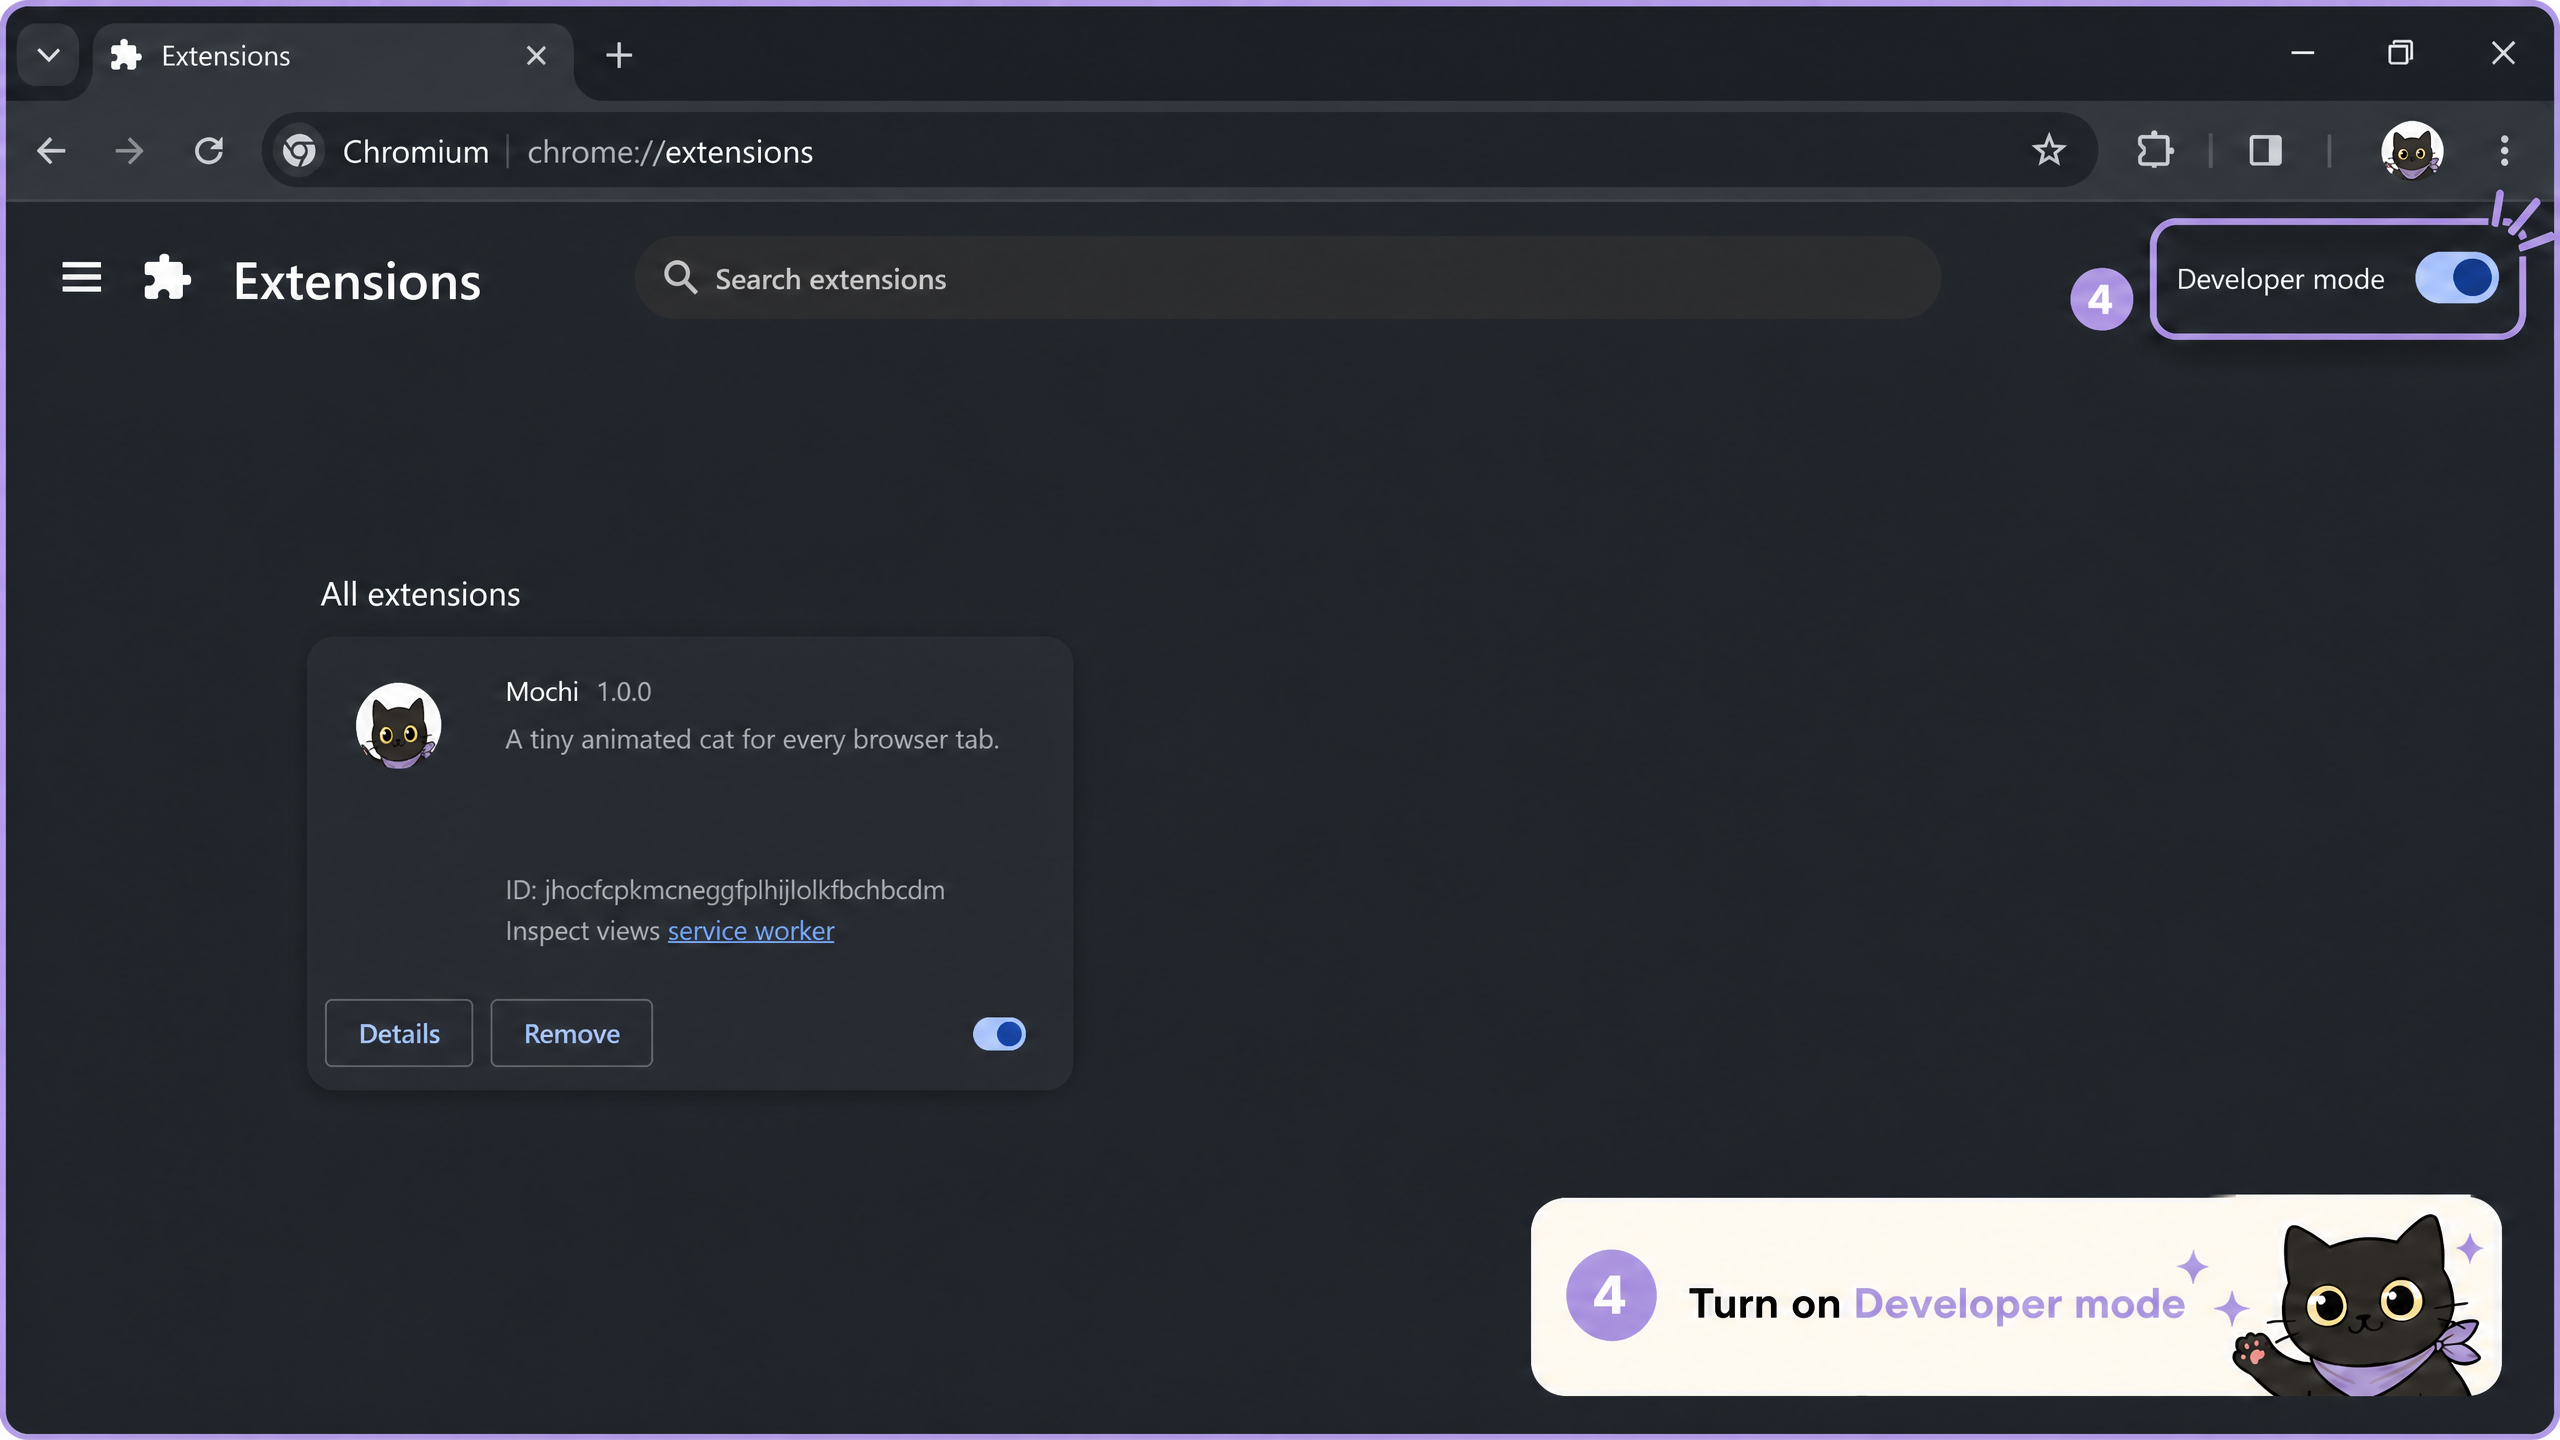
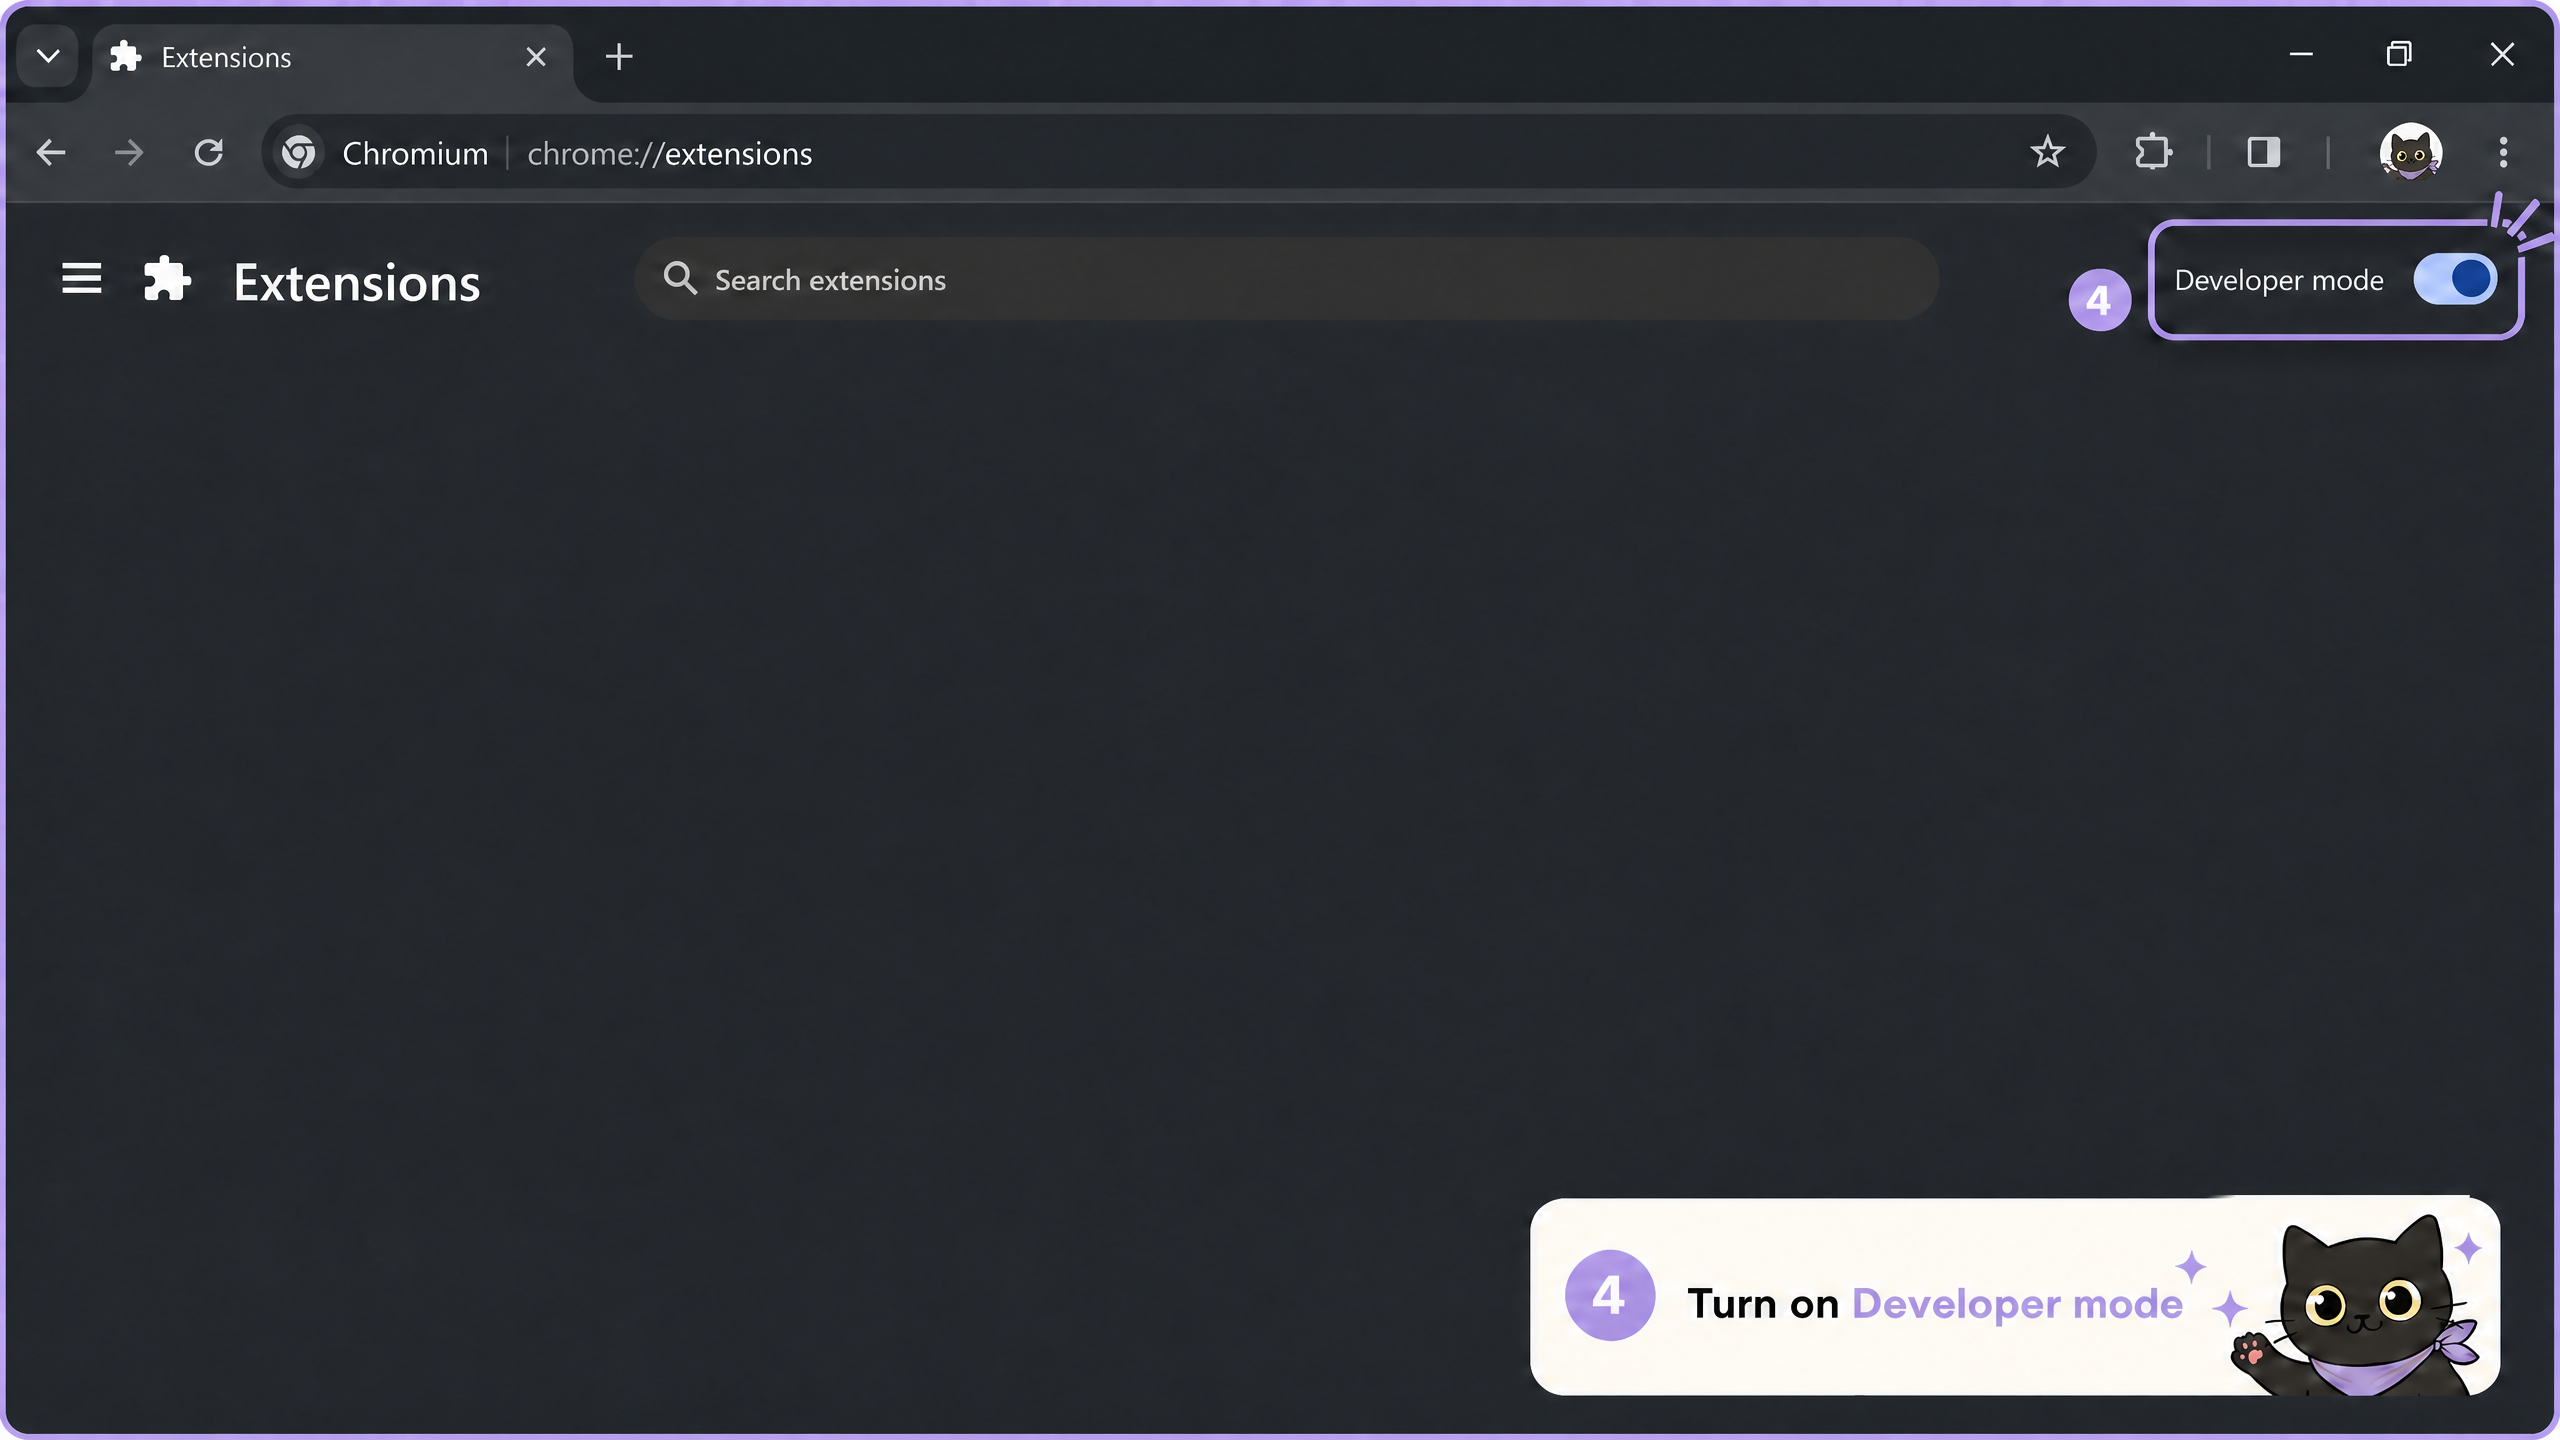
docs: clarify extension loading order

diff --git a/README.md b/README.md
@@ -87,7 +87,7 @@ On the extensions page, find the **Developer mode** switch near the top-right co
   <img src="docs/screenshots/install-step-4-developer-mode.png" alt="Chromium extensions page with Developer mode highlighted" width="760">
 </p>
 
-This allows your browser to install Mochi directly from the folder you downloaded.
+At this point, the extensions page will still be empty. Mochi will appear only after you complete the next step.
 
 ### 5. Load the Mochi folder
 
@@ -97,7 +97,7 @@ Click **Load unpacked**. In the folder window, open the extracted `mochi-main` f
   <img src="docs/screenshots/install-step-5-load-unpacked.png" alt="Chromium Load unpacked button and Mochi folder containing manifest.json" width="760">
 </p>
 
-Mochi should now appear in your list of installed extensions.
+After you select the folder, Mochi should appear in your list of installed extensions. This is the moment when Mochi is installed in your browser.
 
 ### 6. Choose your cat and start using Mochi
 
